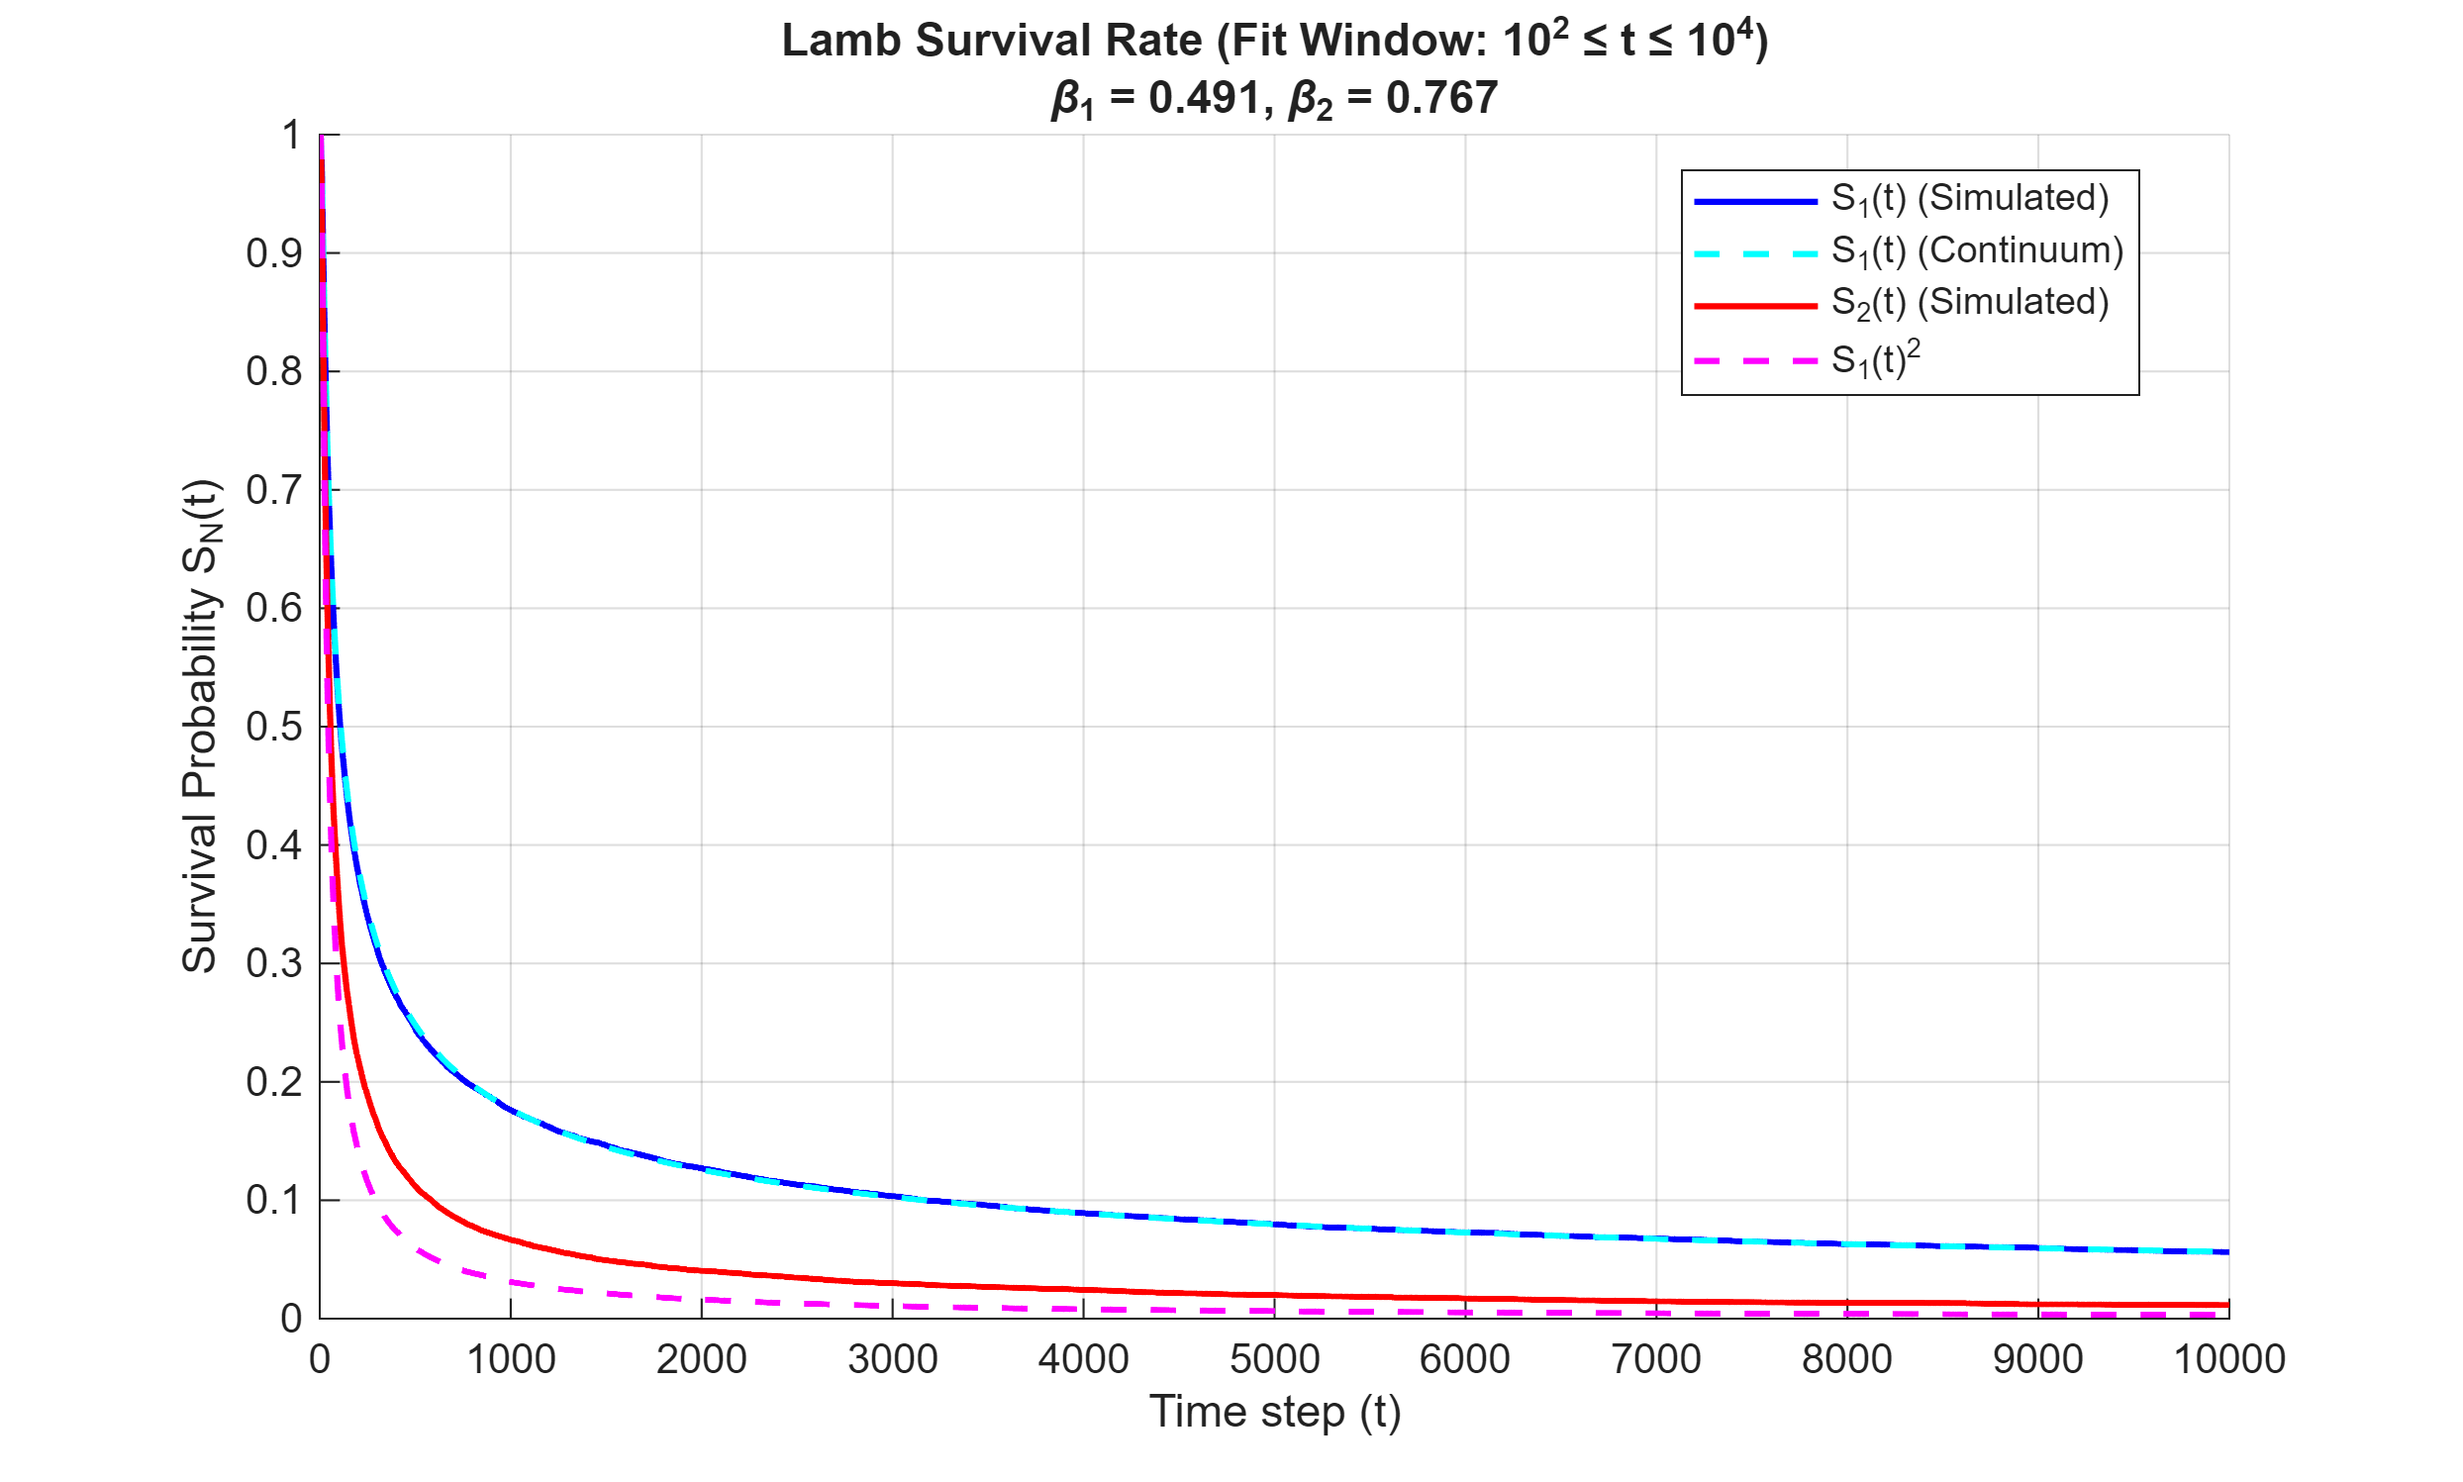
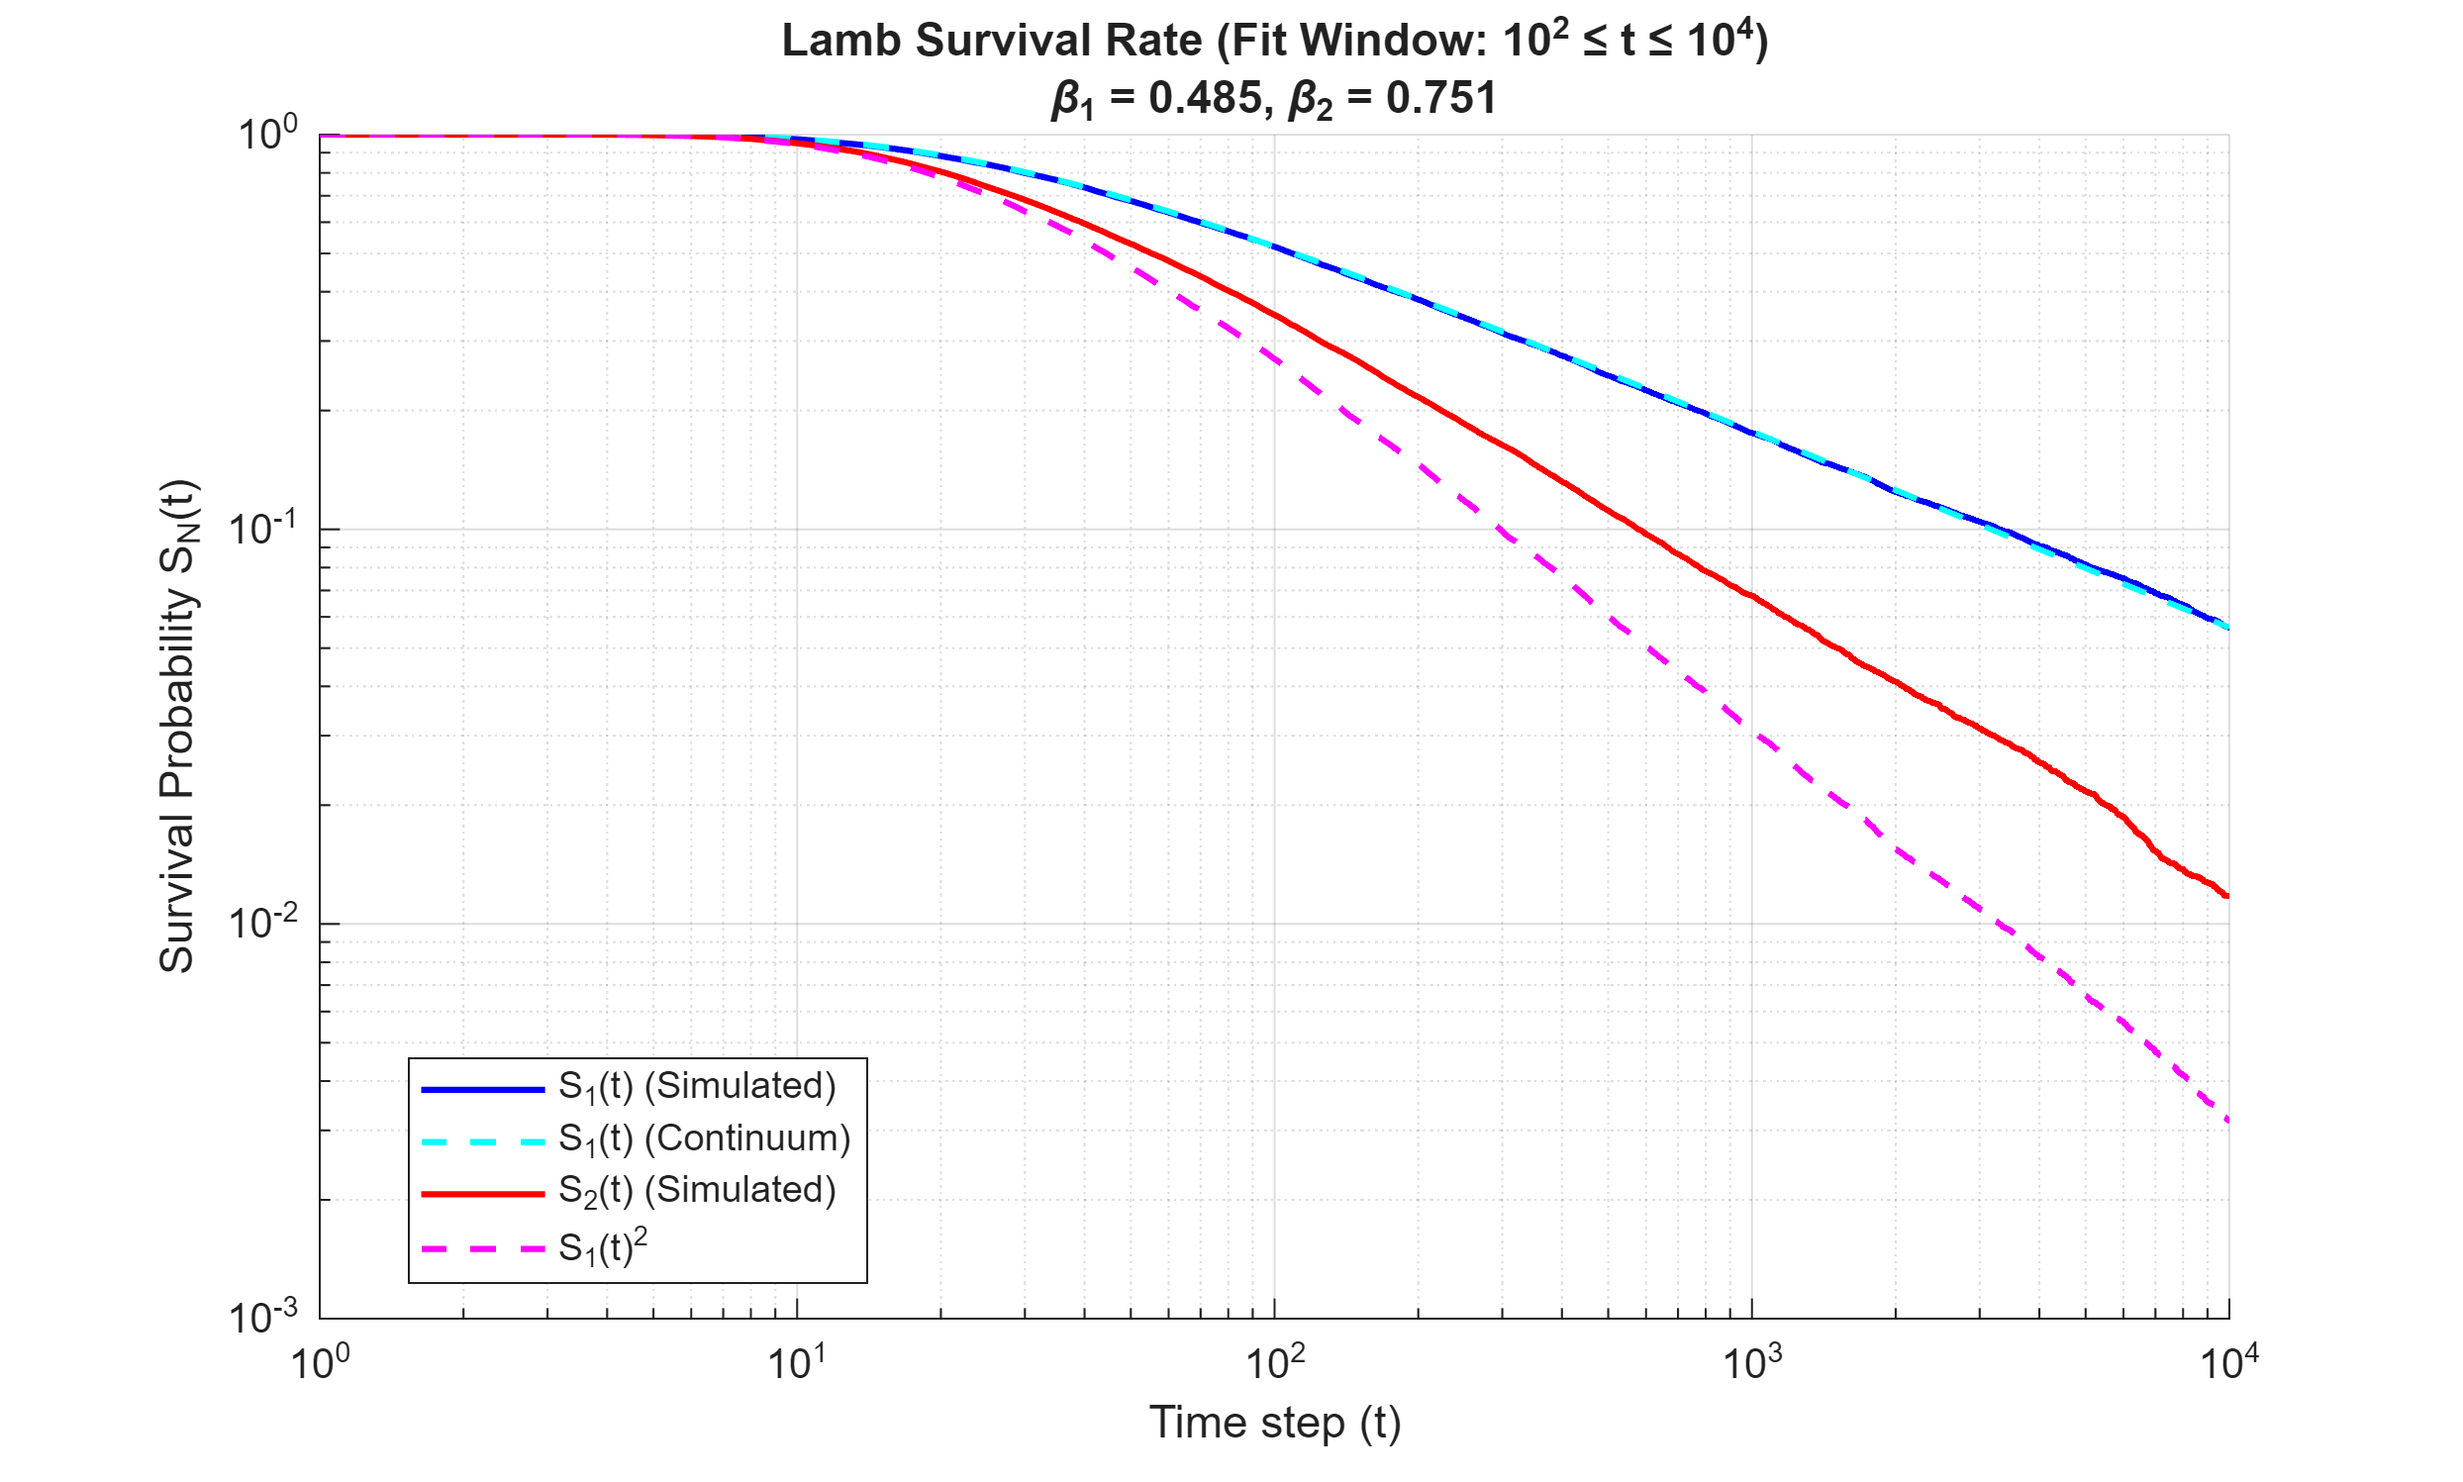
made into log scale

diff --git a/HW3/APPM4560_HW3_Problem4.m b/HW3/APPM4560_HW3_Problem4.m
@@ -76,5 +76,8 @@ ylabel('Survival Probability S_N(t)')
 title(sprintf('Lamb Survival Rate (Fit Window: 10^2 \x2264 t \x2264 10^4)\n\\beta_1 = %.3f, \\beta_2 = %.3f', beta_1, beta_2))
 legend('S_1(t) (Simulated)', 'S_1(t) (Continuum)', 'S_2(t) (Simulated)', 'S_1(t)^2', 'Location', 'best')
 grid on;
+ax = gca;
+ax.XScale = 'log';
+ax.YScale = 'log';
 
 print(fig, 'LambSurvivability', '-dpng', '-r300')
